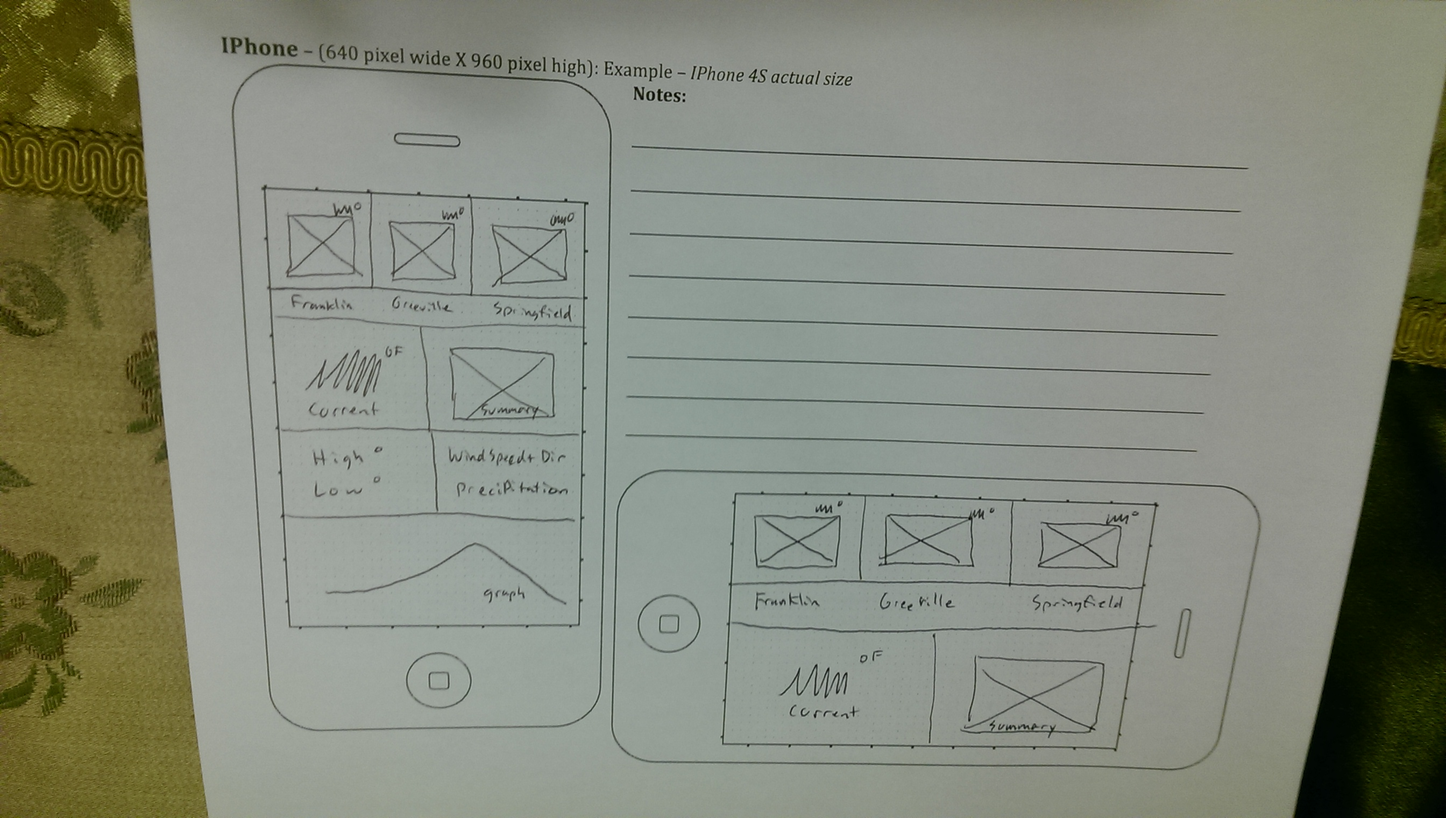
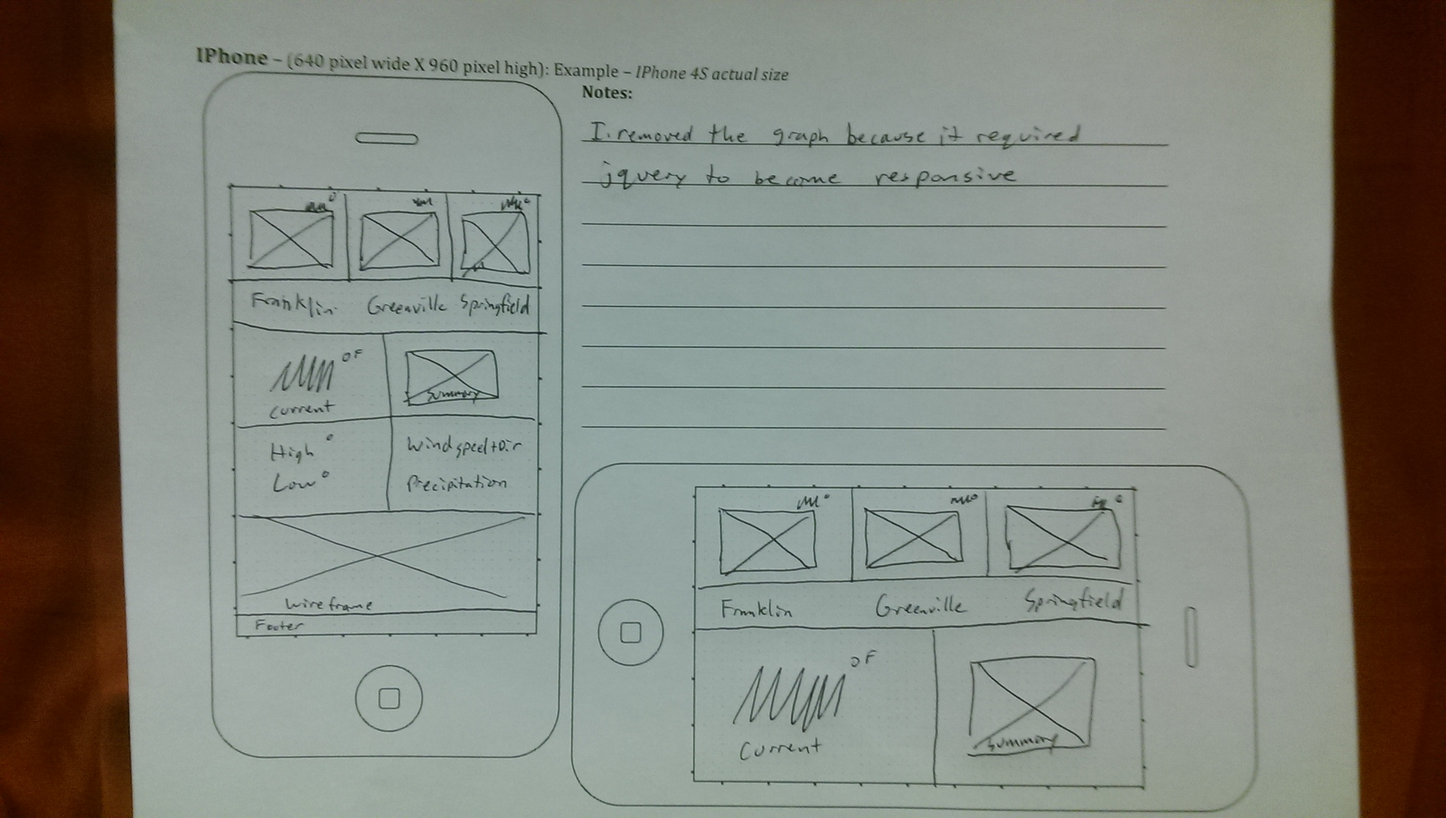
updated franklin

diff --git a/cit230/homework/franklin.html b/cit230/homework/franklin.html
@@ -5,47 +5,110 @@
     <title>Franklin, ID Weather</title>
     <meta http-equiv="X-UA-Compatible" content="IE=edge">
     <meta name="viewport" content="width=device-width">
-    <link rel="stylesheet" media="screen" type="text/css" href="../../cit230/styles/franklin.css">
-    <!--<script type="text/javascript" src="../../cit230/scripts/weather.json"></script>-->
-    <script type="text/javascript" src="https://www.gstatic.com/charts/loader.js"></script>
-    <script type="text/javascript" src="../../cit230/scripts/franklin.js"></script>
+    <link rel="stylesheet" media="screen" type="text/css" href="/cit230/styles/franklin.css">
   </head>
   <body>
     <header>
       <ul class="cityTemps">
-        <li class="first">84&deg;</li>
-        <li class="middle">77&deg;</li>
-        <li class="last">62&deg;</li>
+        <li class="nation"></li>
+        <li><span class="highlight">84&deg;</span></li>
+        <li><span class="highlight">77&deg;</span></li>
+        <li><span class="highlight">62&deg;</span></li>
       </ul>
       <nav class="cities">
-        <img id="selectedCity" alt="Select Franklin Idaho" src="../../cit230/images/franklin.png">
-        <img alt="Select Greenville South Carolina" src="../../cit230/images/greenville.png">
-        <img alt="Select Springfield Illinois" src="../../cit230/images/springfield.png">
+        <img class="nation" alt="United States" src="/cit230/images/usa.png">
+        <img id="selectedCity" alt="Select Franklin Idaho" src="/cit230/images/franklin.png">
+        <img alt="Select Greenville South Carolina" src="/cit230/images/greenville.png">
+        <img alt="Select Springfield Illinois" src="/cit230/images/springfield.png">
       </nav>
       <ul class="cityNames">
-        <li class="first">Franklin</li>
-        <li class="middle">Greenville</li>
-        <li class="last">Springfield</li>
+        <li class="nation">&nbsp;</li>
+        <li><span class="highlight">Franklin</span></li>
+        <li><span class="highlight">Greenville</span></li>
+        <li><span class="highlight">Springfield</span></li>
       </ul>
-
     </header>
     <main>
-      <section id="currentSummary">
-        <h1 id="currentTemp">84&deg;<sup>F</sup></h1>
-        <img alt="Weather Summary" src="../../cit230/images/day.png">
+      <section class="headerPad">&nbsp;</section>
+      <section class="summary">
+        <div>84&deg;<sup>F</sup></div>
       </section>
-      <section class="detailContainer">
-        <section id="highLow" class="first">
-          <p>High 90&deg;</p>
-          <p>Low 66&deg;</p>
-        </section>
-        <section id="windSpeed" class="last">
-          <p>1 - 5 mph SW</p>
-          <p>0% chance of Rain</p>
-        </section>
+      <section class="summary">
+        <img alt="Weather Summary" src="/cit230/images/day.png">
       </section>
-      <div id="curve_chart"></div>
-      <img id="wireframe" alt="Updated Wireframe" src="../../cit230/images/wireframe-small-3.jpg">
+      <section class="detail">
+        <p>High 90&deg;</p>
+        <p>Low 66&deg;</p>
+      </section>
+      <section class="detail">
+        <p>1 - 5 mph SW</p>
+        <p>0% Rain</p>
+      </section>
+      <section class="headerPad">&nbsp;</section>
+      <ul class="largeCityNames">
+        <li>&nbsp;</li>
+        <li><span id="selectedCity">Franklin</span></li>
+        <li>Greenville</li>
+        <li>Springfield</li>
+        <li>&nbsp;</li>
+      </ul>
+      <section class="recommendation, recommendationPad">&nbsp;</section>
+      <section class="recommendation">
+        <h2>Clothing</h2>
+        <p>It could get at hot as 90&deg; so you try to wear light clothing today and stay hydrayted.</p>
+      </section>
+      <section class="recommendation">
+        <h2>Travel</h2>
+        <p>It will be sunny today, so try to use a windsheild visor to prevent the inside of your car becoming too hot.</p>
+      </section>
+      <section class="recommendation, recommendationPad">&nbsp;</section>
+      <section id="news">
+      <section class="newsPad">&nbsp;</section>
+      <section class="news">
+        <h2>News</h2>
+        <p>The heat has caused a fatality due to heat exhaustion brought on by not drinking any water in this hot weather.</p>
+        <p>Stay safe around swimming pools. There 2 fatalities of children playing in pools unsupervised.</p>
+      </section>
+      </section>
+      <section class="hourly">
+        <h2>Morning</h2>
+        4am  - 69&deg;<br>
+        5am  - 70&deg;<br>
+        6am  - 69&deg;<br>
+        7am  - 72&deg;<br>
+        8am  - 74&deg;<br>
+        9am  - 77&deg;<br>
+        10am - 79&deg;<br>
+        11am - 81&deg;
+      </section>
+      <section class="hourly">
+        <h2>Afternoon</h2>
+        12pm - 84&deg;<br>
+        1pm  - 86&deg;<br>
+        2pm  - 88&deg;<br>
+        3pm  - 90&deg;<br>
+        4pm  - 90&deg;<br>
+        5pm  - 85&deg;<br>
+        6pm  - 83&deg;<br>
+        7pm  - 79&deg;
+      </section>
+      <section class="hourly">
+        <h2>Evening</h2>
+        8pm  - 74&deg;<br>
+        9pm  - 70&deg;<br>
+        10pm - 68&deg;<br>
+        11pm - 66&deg;<br>
+        12am - 67&deg;<br>
+        1am  - 67&deg;<br>
+        2am  - 69&deg;<br>
+        3am  - 69&deg;
+      </section>
+      <img id="wireframeSmall" alt="Updated Wireframe" src="/cit230/images/wireframe-small-3.jpg">
+      <img id="wireframeMed" alt="Updated Wireframe" src="/cit230/images/wireframe-medium-3.jpg">
+      <img id="wireframeLarge" alt="Updated Wireframe" src="/cit230/images/wireframe-large-3.jpg">
     </main>
+    <footer>
+      <small>Last Updated Oct 22, 2016</small>
+    </footer>
   </body>
 </html>

diff --git a/cit230/styles/franklin.css b/cit230/styles/franklin.css
@@ -1,37 +1,21 @@
 body{
-  background-color: #2353d8;
   font-family: 'Helvetica', 'Arial', sans-serif;
 }
-.cityTemps{
-  position: absolute;
+main{
+  clear: both;
+  padding-top: 1em;
 }
-.cityTemps li{
-  text-align: right !important;
-  position: relative;
-  right: 20px;
-  top: 10px;
-}
-.first{
+.highlight{
   background-color: rgba(255, 255, 255, 0.44);
-  border-radius: 5px 0px 0px 5px;
-}
-.last{
-  background-color: rgba(255, 255, 255, 0.44);
-  border-radius: 0px 5px 5px 0px;
-}
-.middle{
-  background-color: rgba(255, 255, 255, 0.44);
-}
-nav.cities{
-  background-color: rgba(0, 0, 0, 0.44);
   border-radius: 5px;
+  padding: 0px 5px;
 }
 .cities img{
-  width: 32.33%;
-  margin-bottom: -4px;
+  width: 32%;
 }
 #selectedCity{
-  background-color: #2353d8;
+  background-color: rgba(168, 168, 168, 0.74);
+  border-radius: 5px;
 }
 .cityNames, .cityTemps{
   list-style-type: none;
@@ -42,51 +26,153 @@ nav.cities{
 .cityNames li, .cityTemps li{
   display: block;
   float: left;
-  width: 33%;
+  width: 32%;
   text-align: center;
 }
-#currentSummary{
-  float: left;
-  width: 100%;
-  text-align: center;
-  /*vertical-align: middle;*/
+.cityTemps{
+  position: absolute;
+  right: .2em;
 }
-#currentTemp{
+.cityTemps li{
+  text-align: right !important;
+  margin-top: 5px;
+}
+.summary{
   display: block;
+  font-size: 3em;
+  text-align: center;
+  width: 49%;
   float: left;
-  font-size: 60px;
-  width: 50%;
-  text-shadow: 2px 2px 5px #f9fdff;
 }
-#currentSummary img{
-  float: right;
-  width: 50%;
+.summary div{
+  margin: .8em 0px;
 }
-#currentSummary sup{
-  font-size: 30px;
+.summary sup{
+  font-size: .5em;
 }
-#highLow, #windSpeed, #summary{
-  width: 50%;
+.detail{
+  float: left;
+  width: 49%;
   text-align: center;
 }
-.detailContainer{
-  float: left;
+#wireframeSmall{
+  clear: both;
+  padding: 1em 0px;
   width: 100%;
 }
-#highLow{
-  float: left;
-}
-#windSpeed{
-  float: right;
-}
-#curve_chart{
-  margin-top: 10px;
-  float: left;
-  width: 100%;
-}
-#wireframe{
-  float: left;
-  margin-top: 10px;
-  width: 100%;
+li.nation, img.nation, .recommendation, .hourly, .headerPad, .largeCityNames, .recommendationPad, .news, .newsPad, #wireframeMed, #wireframeLarge{
+  display: none;
 }
 
+
+@media screen and (min-width: 600px){
+  body{
+    font-size: 175%;
+  }
+  #wireframeSmall{
+    display: none;
+  }
+  #wireframeMed{
+    display: block;
+    clear: both;
+    padding: 1em 0px;
+    width: 100%;
+  }
+  li.nation, img.nation{
+    display: block;
+  }
+  .cities img, .cityNames li, .cityTemps li{
+    float: left;
+    width: 24.5%;
+  }
+  .summary, .detail{
+    display: block;
+    float: left;
+    width: 24.5%;
+  }
+  .summary div{
+    margin: .2em 0px;
+  }
+  .recommendation{
+    display: block;
+    float: left;
+    width: 48%;
+    margin: 0px .2em;
+  }
+  .recommendation h2{
+    font-size: 1em;
+    text-align: center;
+  }
+  main{
+    padding-top: 1em;
+  }
+  .hourly{
+    display: block;
+    width: 32%;
+    float: left;
+    text-align: center;
+  }
+}
+
+@media screen and (min-width: 1000px){
+  header, #wireframeMed{
+    display: none;
+  }
+  #wireframeLarge{
+    display: block;
+    clear: both;
+    padding: 1em 0px;
+    width: 100%;
+  }
+  .summary, .detail, .headerPad{
+    display: block;
+    float: left;
+    width: 20%;
+  }
+  .headerPad{
+    width: 10%;
+  }
+  .largeCityNames{
+    display: block;
+    clear: both;
+    list-style-type: none;
+    margin: 0;
+    padding: 0;
+    width: 100%;
+  }
+  .largeCityNames li{
+    display: block;
+    float: left;
+    width: 19%;
+    text-align: center;
+  }
+  #selectedCity{
+    padding: 5px;
+  }
+  #news{
+    clear: both;
+  }
+  .newsPad{
+    display: block;
+    width: 8%;
+    float: left;
+  }
+  .news{
+    display: block;
+    float: left;
+    width: 80%;
+  }
+  .news h2{
+    font-size: 1em;
+    text-align: center;
+  }
+  .recommendation{
+    width: 40%;
+    padding: 2em 0px;
+  }
+  .recommendationPad{
+    float: left;
+    display: block;
+    width: 8%;
+  }
+}
